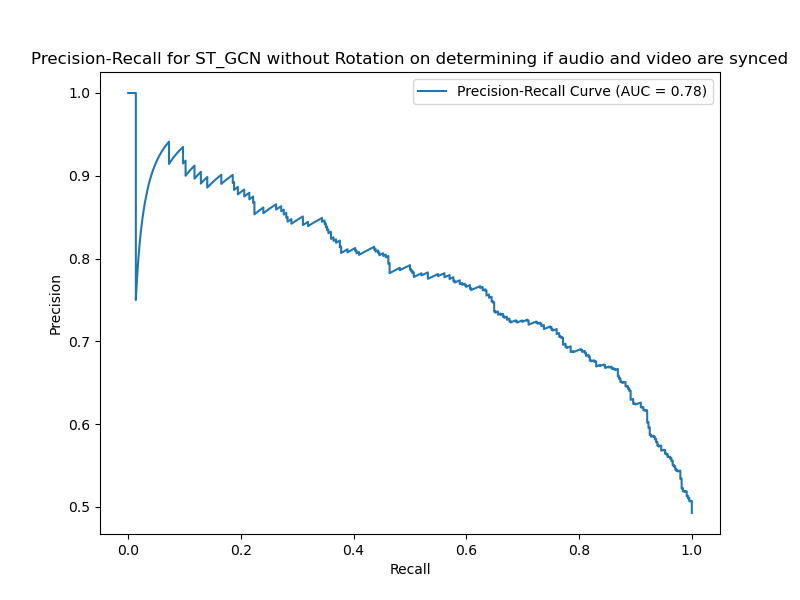
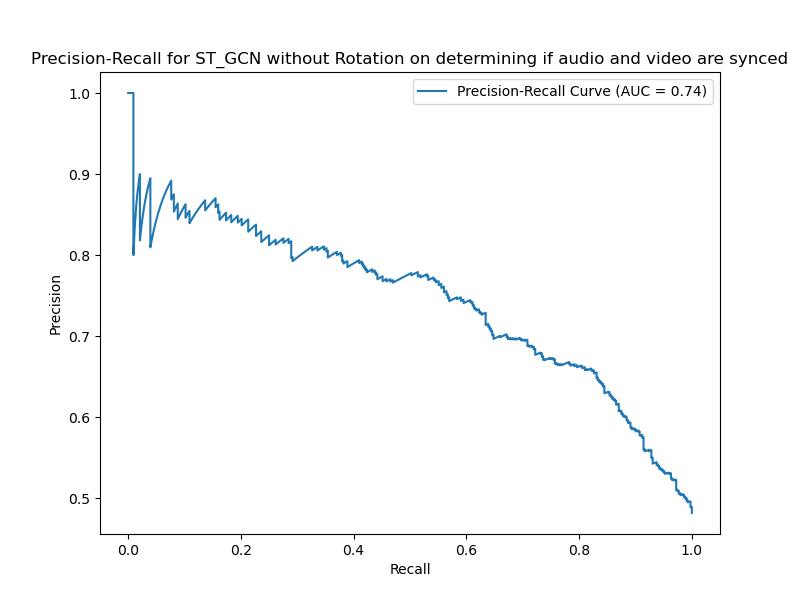
PR mediapipe

diff --git a/PR_curve_mediapipe.py b/PR_curve_mediapipe.py
@@ -1,0 +1,111 @@
+import os
+import matplotlib.pyplot as plt
+from sklearn.datasets import make_classification
+from sklearn.model_selection import train_test_split
+from sklearn.linear_model import LogisticRegression
+from sklearn.metrics import precision_recall_curve, auc
+import torch.nn.functional as F
+import torch
+import torch.optim as optim
+from torch.utils import data as data_utils
+from hparams import hparams
+import st_gcn_train_mediapipe as st
+from mediapipe.python.solutions.face_mesh_connections import FACEMESH_TESSELATION 
+
+from models import audio_only
+from models import LandmarkSTGCNConformer
+from models import build_adjacency
+
+st_gcn_checkpoint = st.args.st_gcn_checkpoint_dir
+audio_checkpoint = st.args.audio_checkpoint_dir
+
+fig_path = f"Syncnet_task_PR_Curves/PR_curve_lmks_mediapipe.png"
+fig_title = f"Precision-Recall for mediapipe landmarks model on determining if audio and video are synced"
+eval_step_max = None
+
+def eval_model(test_data_loader, device, st_gcn_model, audio_model, strip_z = True):
+    eval_steps = eval_step_max
+    # eval_steps = None ## Modification ##
+    print('Evaluating for {} steps'.format(eval_steps))
+    losses = []
+    y_truth = []
+    while 1:
+        for step, (x, mel, y) in enumerate(test_data_loader):
+
+            st_gcn_model.eval()
+            audio_model.eval()
+
+            # Transform data to CUDA device
+
+            mel = mel.to(device)
+
+            x = x.permute(0, 3, 1, 2)
+            if strip_z:
+                x = x[:, :2, :, :]
+
+            lmk_feat = st_gcn_model(x)
+            v = lmk_feat.mean(dim=1)
+            a = audio_model(mel)
+            y = y.to(device)
+
+            loss = F.cosine_similarity(a, v)
+            losses.extend(loss.view(-1).detach().cpu().tolist())
+            y_truth.extend(y.view(-1).detach().cpu().tolist())
+
+            if eval_steps is not None and step > eval_steps: break ## Modification ##
+
+        averaged_loss = sum(losses) / len(losses)
+        print(averaged_loss)
+
+        return y_truth, losses
+    
+def plot_PR_curve(fig_path, fig_title, y_test, y_scores):
+    precision, recall, thresholds = precision_recall_curve(y_test, y_scores)
+    auc_score = auc(recall, precision)
+
+    plt.figure(figsize=(8, 6))
+    plt.plot(recall, precision, label=f'Precision-Recall Curve (AUC = {auc_score:.2f})')
+    plt.xlabel('Recall')
+    plt.ylabel('Precision')
+    plt.title(fig_title)
+    plt.legend()
+    plt.savefig(fig_path)
+
+    print(f"Saved PR Curve at {fig_path}")
+    
+if __name__ == "__main__":
+    use_cuda = torch.cuda.is_available()
+    use_cuda = False
+    device = torch.device("cuda" if use_cuda else "cpu")
+
+    batch_size = 1 # hparams.syncnet_batch_size
+    test_dataset = st.Dataset('val')
+
+    test_data_loader = data_utils.DataLoader(
+        test_dataset, batch_size=batch_size,
+        num_workers=1)
+    
+    edges = list(FACEMESH_TESSELATION)
+    V = 478
+    A = build_adjacency(V, edges)
+
+    model_args = dict(
+            num_nodes=V,
+            A=A,                          # [K, V, V] adjacency
+            d_model=128,
+            post_linear_hidden=128,       # hidden size before conformer
+            conformer_layers=4,
+            conformer_heads=4,
+            conformer_ff=256,
+            conformer_conv_kernel=31
+        )
+
+    print(audio_checkpoint)
+    
+    st_gcn_model, audio_model = st.load_stgcn_and_audio_models(st_gcn_checkpoint, audio_checkpoint, A, V, use_cuda)
+
+    y_truth, scores = eval_model(test_data_loader, device, st_gcn_model, audio_model)
+    print(len(y_truth))
+    print(len(scores))
+
+    plot_PR_curve(fig_path, fig_title, y_truth, scores)

diff --git a/PR_curve_st_gcn.py b/PR_curve_st_gcn.py
@@ -19,12 +19,12 @@ from models import build_adjacency
 ### Variables ###
 
 eval_step_max = None
-# use_cuda = False
+use_cuda = False
 use_cuda = torch.cuda.is_available()
 device = torch.device("cuda" if use_cuda else "cpu")
 
 norot_knn_check = "checkpoint_step000330000.pth"
-norot_check = "checkpoint_step000250000.pth"
+norot_check = "" # "checkpoint_step000250000.pth"
 rot_check = "checkpoint_step000240000.pth"
 ## ST GCN
 st_gcn_norot_checkpoint_knn = "/home/ksw38/RVL/color_syncnet/Wav2Lip/checkpoints_st_gcn_norot/" + norot_knn_check
@@ -200,15 +200,15 @@ if __name__ == "__main__":
 
     ### Init models ###
     st_gcn_model_norot, audio_model_norot = load_stgcn_and_audio_models(st_gcn_norot_checkpoint, audio_norot_checkpoint, A, V, use_cuda=use_cuda, rotation=False)
-    st_gcn_model_norot_knn, audio_model_norot_knn = load_stgcn_and_audio_models(st_gcn_norot_checkpoint_knn, audio_norot_checkpoint_knn, A_knn, V, use_cuda=use_cuda, rotation=False)
-    st_gcn_model_rot, audio_model_rot = load_stgcn_and_audio_models(st_gcn_rot_checkpoint, audio_rot_checkpoint, A, V, use_cuda=use_cuda, rotation=True)
+    # st_gcn_model_norot_knn, audio_model_norot_knn = load_stgcn_and_audio_models(st_gcn_norot_checkpoint_knn, audio_norot_checkpoint_knn, A_knn, V, use_cuda=use_cuda, rotation=False)
+    # st_gcn_model_rot, audio_model_rot = load_stgcn_and_audio_models(st_gcn_rot_checkpoint, audio_rot_checkpoint, A, V, use_cuda=use_cuda, rotation=True)
 
     ### Create PR Curve
     y_truth, scores = eval_norot_model(test_data_loader, st_gcn_model_norot, audio_model_norot, device)
     plot_PR_curve("ST_GCN without Rotation", y_truth, scores)
 
-    y_truth, scores = eval_norot_model(test_data_loader, st_gcn_model_norot_knn, audio_model_norot_knn, device)
-    plot_PR_curve("ST_GCN without Rotation using Knn", y_truth, scores)
+    # y_truth, scores = eval_norot_model(test_data_loader, st_gcn_model_norot_knn, audio_model_norot_knn, device)
+    # plot_PR_curve("ST_GCN without Rotation using Knn", y_truth, scores)
 
-    y_truth, scores = eval_rot_model(test_data_loader, st_gcn_model_rot, audio_model_rot, device)
-    plot_PR_curve("ST_GCN with Rotation", y_truth, scores)
+    # y_truth, scores = eval_rot_model(test_data_loader, st_gcn_model_rot, audio_model_rot, device)
+    # plot_PR_curve("ST_GCN with Rotation", y_truth, scores)

diff --git a/st_gcn_train_mediapipe.py b/st_gcn_train_mediapipe.py
@@ -49,7 +49,7 @@ parser = argparse.ArgumentParser(description='Code to train the expert lip-sync 
 parser.add_argument('--video_root', help='Root folder of the videos of the LRS2 dataset', default=video_root)
 parser.add_argument("--data_root", help="Root folder of the preprocessed landmarks for LRS2 dataset", default=data_root)
 parser.add_argument("--st_gcn_checkpoint_dir", help="Checkpoints for ST GCN", default=st_gcn_checkpoint_dir)
-parser.add_argument("--audio_checkpoint_dir", help="Checkpoints for Audio", default=st_gcn_checkpoint_dir)
+parser.add_argument("--audio_checkpoint_dir", help="Checkpoints for Audio", default=audio_model_checkpoint_dir)
 args = parser.parse_args()
 
 class Dataset(object):
@@ -337,6 +337,7 @@ def load_stgcn_and_audio_models(checkpoint, audio_checkpoint, A, V, use_cuda = F
     audio_model = audio_only().to(device)
     audio_optimizer = optim.Adam([p for p in audio_model.parameters() if p.requires_grad],
                                 lr=hparams.syncnet_lr, weight_decay=1e-5)
+    print(audio_checkpoint)
     audio_model = load_from_checkpoint_or_dir(audio_checkpoint, model=audio_model, optimizer=audio_optimizer, use_cuda=use_cuda)
     audio_model.eval()
 

diff --git a/test.py b/test.py
@@ -113,12 +113,12 @@ for i, (rel_dir, bases) in enumerate(onlyA.items()):
     print("  Examples:", bases[:5])
 
 
-# video_root = '/home/ksw38/groups/grp_lip/nobackup/autodelete/datasets/fslgroup/grp_lip/compute/datasets/LRS2/preprocessedRetinaface/lrs2/lrs2_video_seg24s/mvlrs_v1/main/'
+video_root = '/home/ksw38/groups/grp_lip/nobackup/autodelete/datasets/fslgroup/grp_lip/compute/datasets/LRS2/preprocessedRetinaface/lrs2/lrs2_video_seg24s/mvlrs_v1/main/'
 
-# all_videos = get_image_list(video_root, 'val')
-# print(len(all_videos))
-# all_videos = get_image_list(video_root, 'train')
-# print(len(all_videos))
+all_videos = get_image_list(video_root, 'val')
+print(len(all_videos))
+all_videos = get_image_list(video_root, 'train')
+print(len(all_videos))
 
 data_root = '/home/ksw38/groups/grp_landmarks/nobackup/archive/landmarks_mp/main/'
 count = count_videos(data_root)
@@ -140,9 +140,9 @@ print(count)
 # count = count_videos(data_root)
 # print(count)
 
-# data_root = "/fslgroup/grp_lip/datasets/lrs2/mvlrs_v1/main/"
-# count = count_videos(data_root)
-# print(count)
+data_root = "/fslgroup/grp_lip/datasets/lrs2/mvlrs_v1/main/"
+count = count_videos(data_root)
+print(count)
 
 
 # import torch

diff --git a/st_gcn_train_rot_syncnet.py b/st_gcn_train_rot_syncnet.py
@@ -28,7 +28,7 @@ from os import path
 
 import re
 
-facial = False
+facial = True
 if facial:
     audio_model_checkpoint_dir = "checkpoints_audio_rot_facial"
     st_gcn_checkpoint_dir = "checkpoints_st_gcn_rot_facial"
@@ -179,6 +179,7 @@ if __name__ == "__main__":
         print("Using Facial Edges")
         edges = st.facial_edges()
     else:
+        print("Using KNN Edges")
         edges = st.knn_edges(first_lmks)
     num_lmks = first_lmks.shape[0]
     A = build_adjacency(num_lmks, edges)
@@ -201,7 +202,7 @@ if __name__ == "__main__":
                             lr=hparams.syncnet_lr, weight_decay=1e-5)
     
     # Loading code
-    st_gcn_model, audio_model = st.load_stgcn_and_audio_models(st_gcn_checkpoint_dir, audio_model_checkpoint_dir, A, V, use_cuda=use_cuda, rotation=False)
+    st_gcn_model, audio_model = st.load_stgcn_and_audio_models(st_gcn_checkpoint_dir, audio_model_checkpoint_dir, A, V, use_cuda=use_cuda, rotation=True)
     global_epoch = st.global_epoch
     global_step = st.global_step
 

diff --git a/PR_curve_st_gcn_vvad.py b/PR_curve_st_gcn_vvad.py
@@ -203,6 +203,6 @@ if __name__ == "__main__":
     V = num_lmks
 
     eval_and_plot(st_gcn_norot_checkpoint, audio_norot_checkpoint, A, V, model_name="norot_facial", use_cuda=use_cuda)
-    eval_and_plot(st_gcn_norot_checkpoint_knn, audio_norot_checkpoint_knn, A_knn, V, model_name="norot_knn", use_cuda=use_cuda)
-    eval_and_plot(st_gcn_rot_checkpoint, audio_rot_checkpoint, A, V, "rot", use_cuda=use_cuda, rotation=True)
+    # eval_and_plot(st_gcn_norot_checkpoint_knn, audio_norot_checkpoint_knn, A_knn, V, model_name="norot_knn", use_cuda=use_cuda)
+    # eval_and_plot(st_gcn_rot_checkpoint, audio_rot_checkpoint, A, V, "rot", use_cuda=use_cuda, rotation=True)
 
